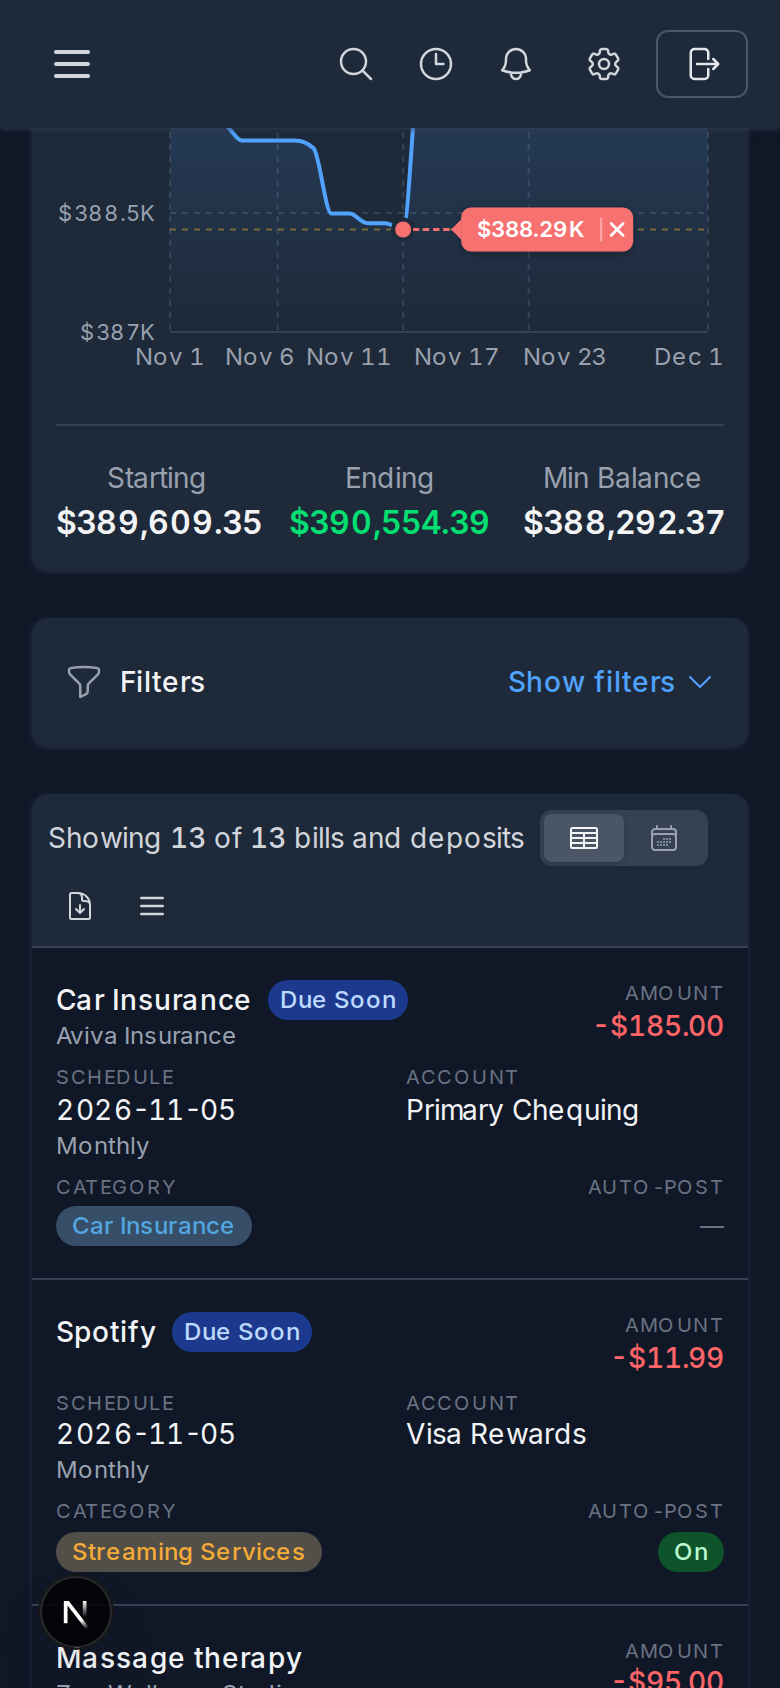
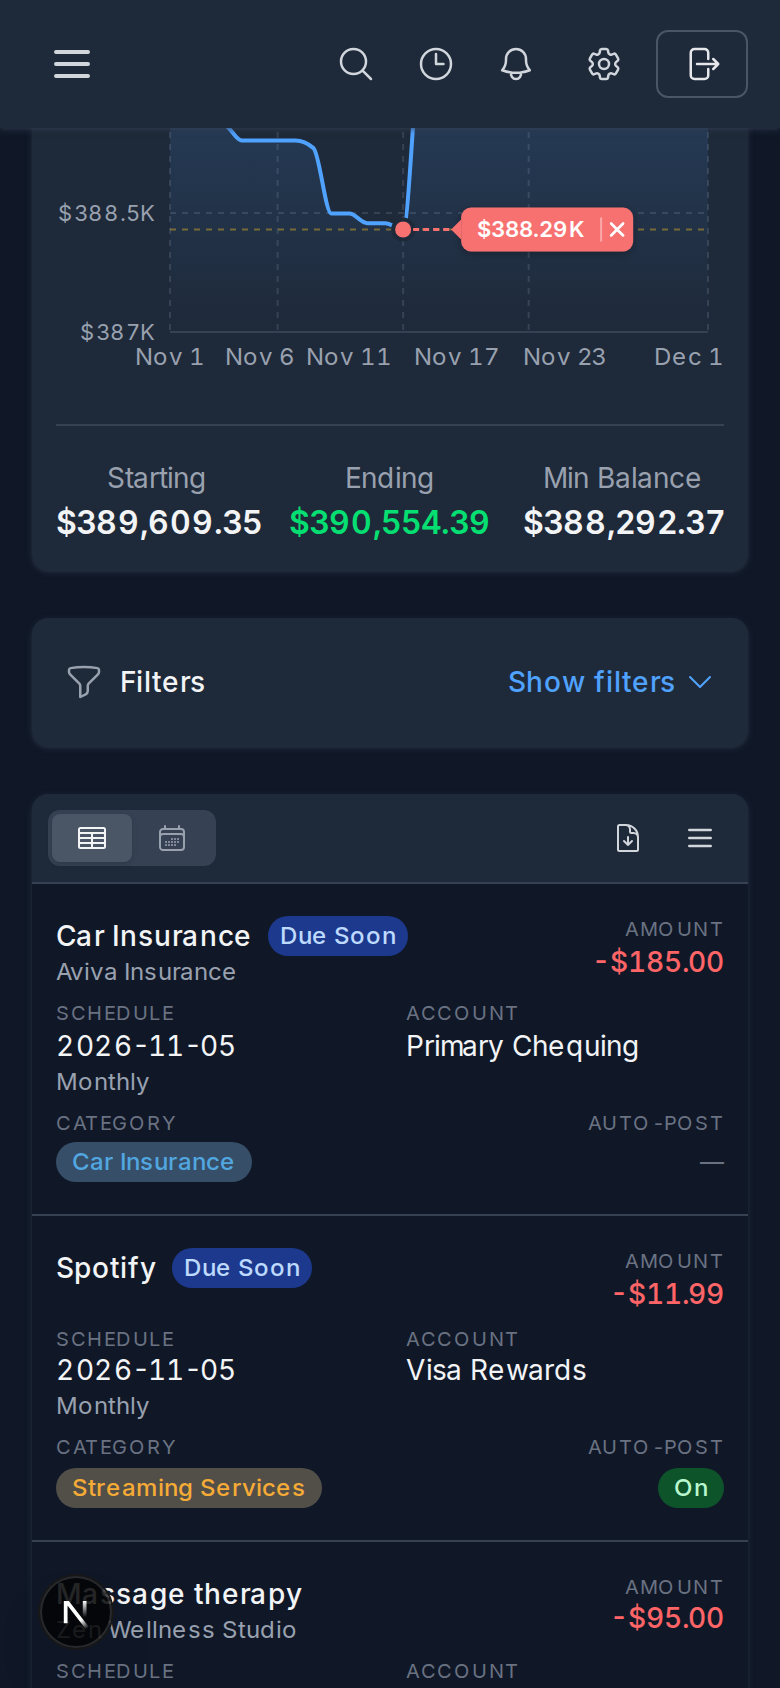
docs(bills): retake the calendar and mobile bills pictures for the new toolbar layout
trail check flags 7 conflicts that are lexical matches only: no paging props
are passed to ListTopToolbar, no column tiers change, and no next-occurrence
amount logic is touched.

diff --git a/.trail/learnings/2026-11-01-bills-toolbar-layout-switch-left-month-node.md b/.trail/learnings/2026-11-01-bills-toolbar-layout-switch-left-month-node.md
@@ -1,0 +1,29 @@
+---
+title: "Bills toolbar layout: switch left, month centred, no count on phones (issue 1985)"
+author: Node
+date: 2026-11-01
+branch: claude/issue-1985
+cost: { minutes: 16, tokens: 82138 }
+touches:
+  - docs/images/readme/mobile-bills.png
+  - website/docs/images/bills-calendar.light.png
+  - website/docs/images/bills-calendar.png
+  - frontend/src/app/bills/page.test.tsx
+  - frontend/src/app/bills/page.tsx
+  - frontend/src/components/ui/ListTopToolbar.test.tsx
+  - frontend/src/components/ui/ListTopToolbar.tsx
+  - website/docs/bills-and-deposits.html
+  - website/docs/bills-and-deposits.md
+  - website/docs/search-index.json
+---
+
+## Decided
+- Bills calendar toolbar is `sm:grid sm:grid-cols-[1fr_auto_1fr]`: the ViewModeToggle in column 1, the month nav (arrows, month, Today) in column 2, the empty third column balancing it so the month is truly centred. Below sm it is a wrapping flex row, switch first.
+- ListTopToolbar's `summary` line is `hidden sm:block`, and its row is `sm:flex-wrap` only, so on a phone the switch sits left and Export + density sit flush right on one line. Bills is the only `summary` caller.
+
+## Tried and ruled out
+- Nothing; trail check flagged 7 lexical "conflicts" (paging props, column tiers, next-occurrence amount) that this layout change does not touch.
+
+## Watch out
+- Retaking docs pictures: the docs `-g bills-calendar|bills-list` run also matches dashboard-upcoming-bills-calendar, and the readme mobile run rewrites every mobile-*.png; revert the ones the change does not affect. readme/04-mobile has two flaky tests (mortgage, donut report) unrelated to bills.
+- The worker's rootless Docker still fails port publishing; the `ports: !reset []` override + node TCP proxy inside the Playwright container on issue-N_e2e-network works.
